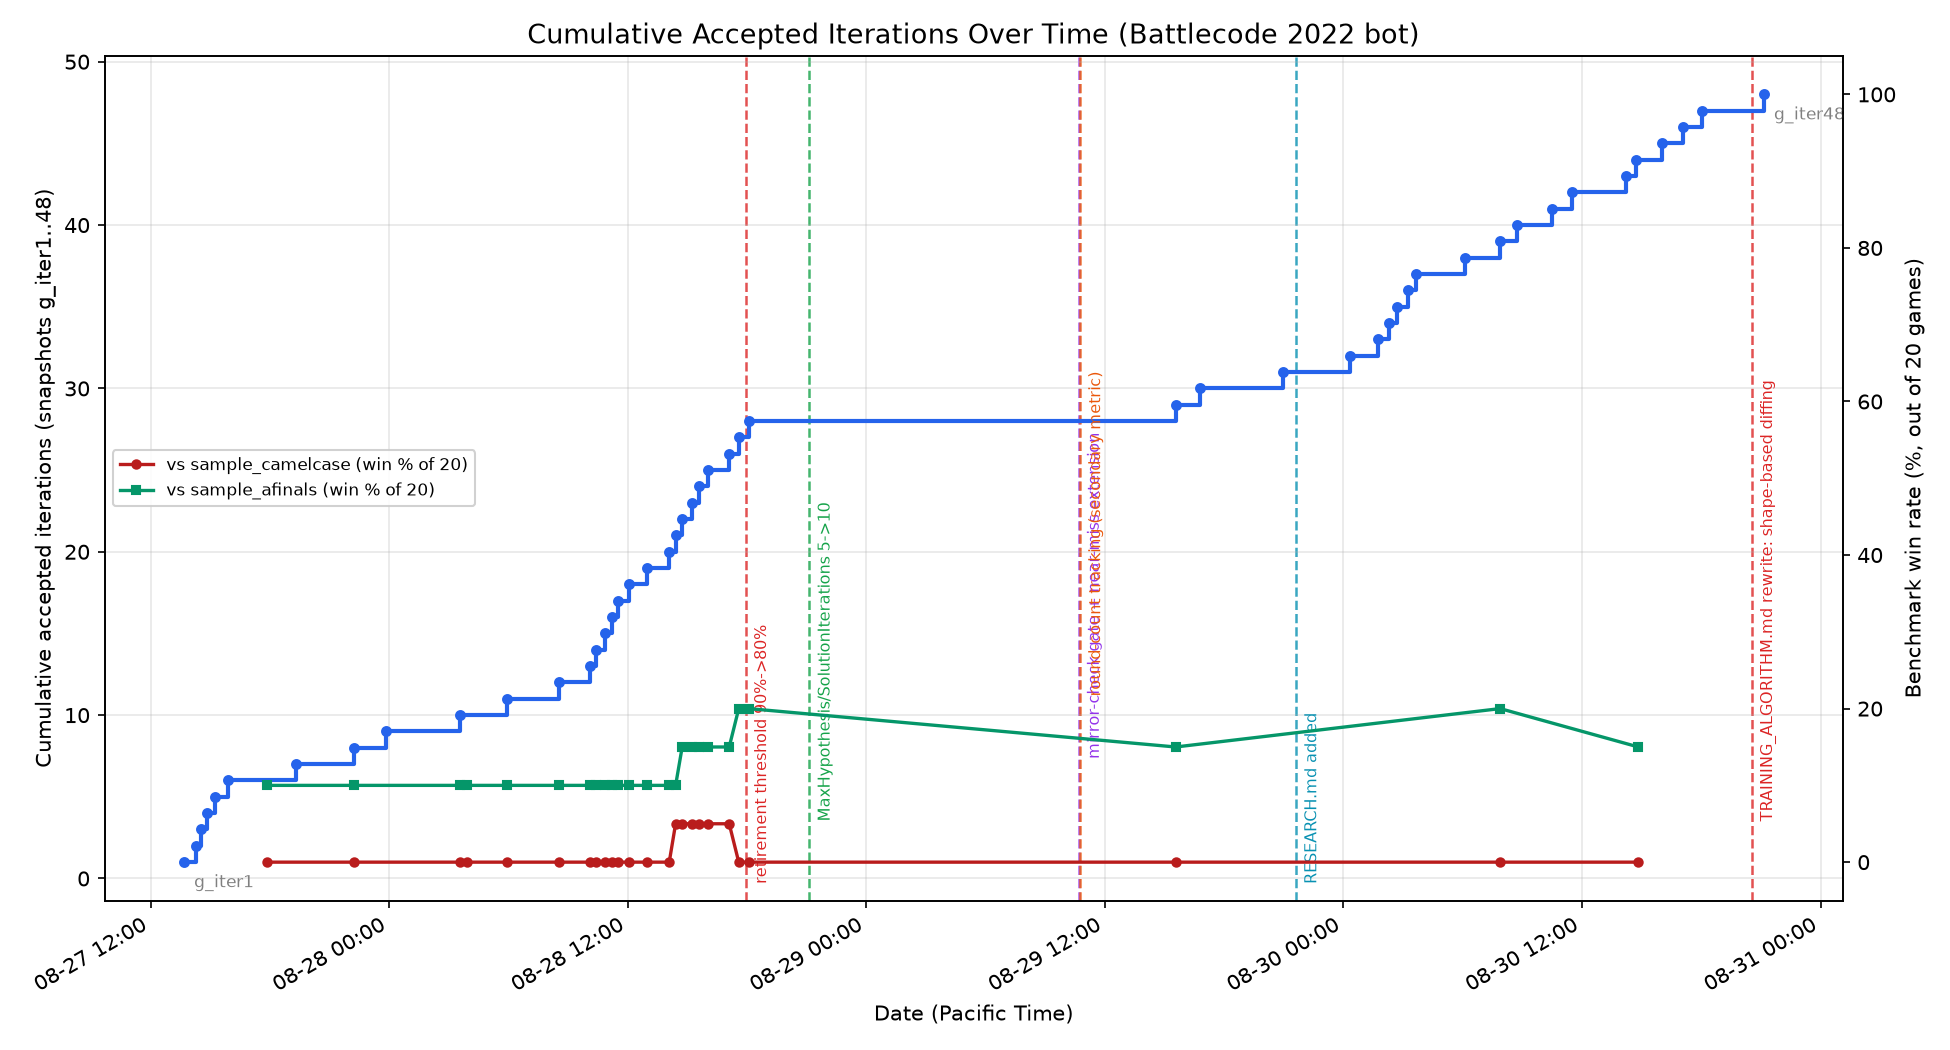
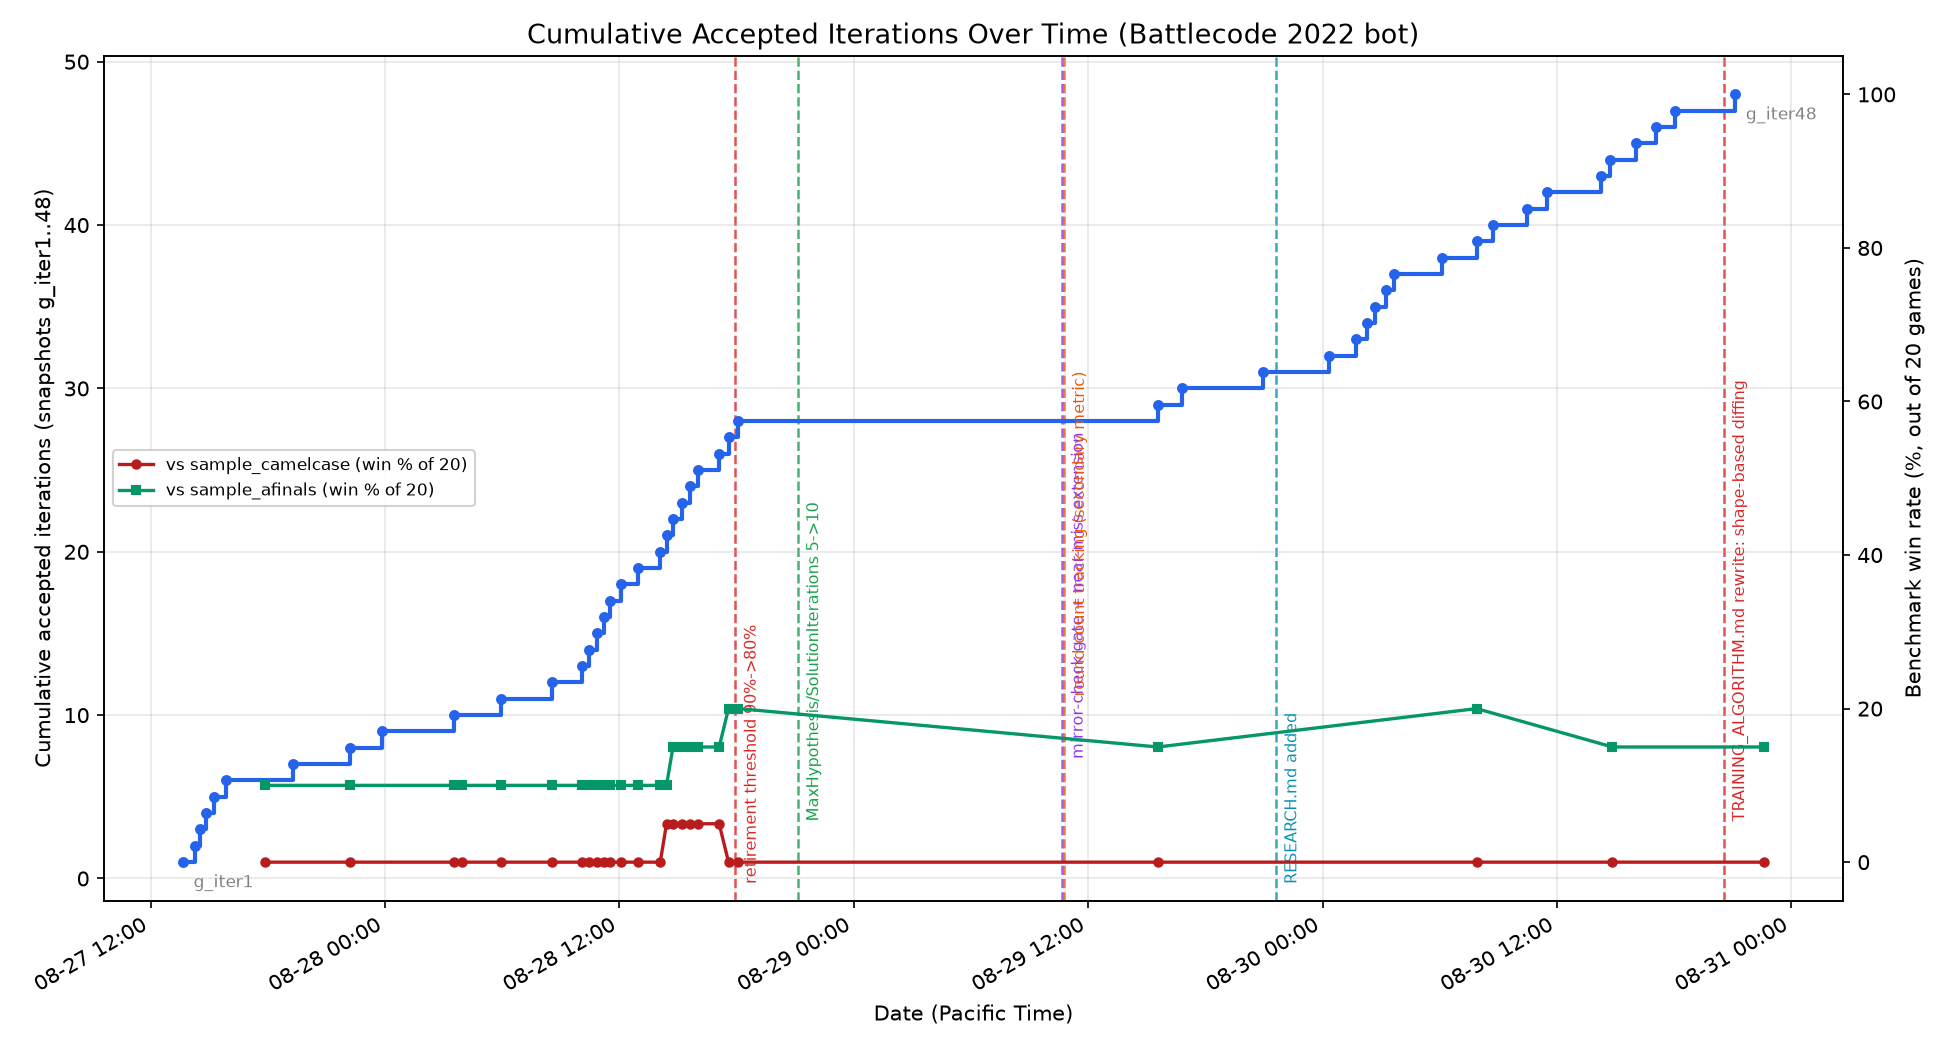
Diagnostic: fresh benchmark tally post-Iteration 103 -- both unchanged as expected

diff --git a/tools/plot_progress.py b/tools/plot_progress.py
@@ -73,6 +73,7 @@ BENCHMARK_HISTORY = [
     ("2026-08-29T22:33:36+00:00", 0, 3),   # Iteration 61
     ("2026-08-30T14:52:55+00:00", 0, 4),   # this session's full 60-game tally
     ("2026-08-30T14:50:07-07:00", 0, 3),   # post-Iteration-97 check (Sage early-warning)
+    ("2026-08-30T22:34:22-07:00", 0, 3),   # post-Iteration-103 check (build-priority/reinforce fixes)
 ]
 
 

diff --git a/TRAINING_LOG.md b/TRAINING_LOG.md
@@ -8840,3 +8840,20 @@ before reinforcing a live fight) is sound and the `chessboard`/
 `pillars` upside is real; whatever eventually protects `highway` too
 should preserve that upside, not trade it away like v2 traded away
 `pillars`.
+
+### Diagnostic note — fresh benchmark tally after Iterations 99-103: unchanged, as expected
+
+Ran fresh full 20-game tallies against both benchmark bots with
+`g_iter48` as the working state: `sample_afinals` **3/20 (15%)**,
+`sample_camelcase` **0/20 (0%)** -- identical to the last recorded
+point (right after Iterations 96/97). Tonight's accepted iterations
+(99-101, 103) were all build-priority or Soldier-reinforcement bug
+fixes, verified clean at peer-Gauntlet scale but explicitly understood
+(per each iteration's own writeup) as not expected to flip either
+benchmark matchup on their own, since both are structural production-
+scale mismatches rather than a chain of small tactical bugs. This
+tally confirms that expectation rather than contradicting it -- not a
+new finding, just a scheduled check-in per the standing
+`BenchmarkEvery` cadence. Added as a new `BENCHMARK_HISTORY` point in
+`tools/plot_progress.py` (`2026-08-30T22:34:22-07:00`, camelcase=0,
+afinals=3) and regenerated the progress chart.
